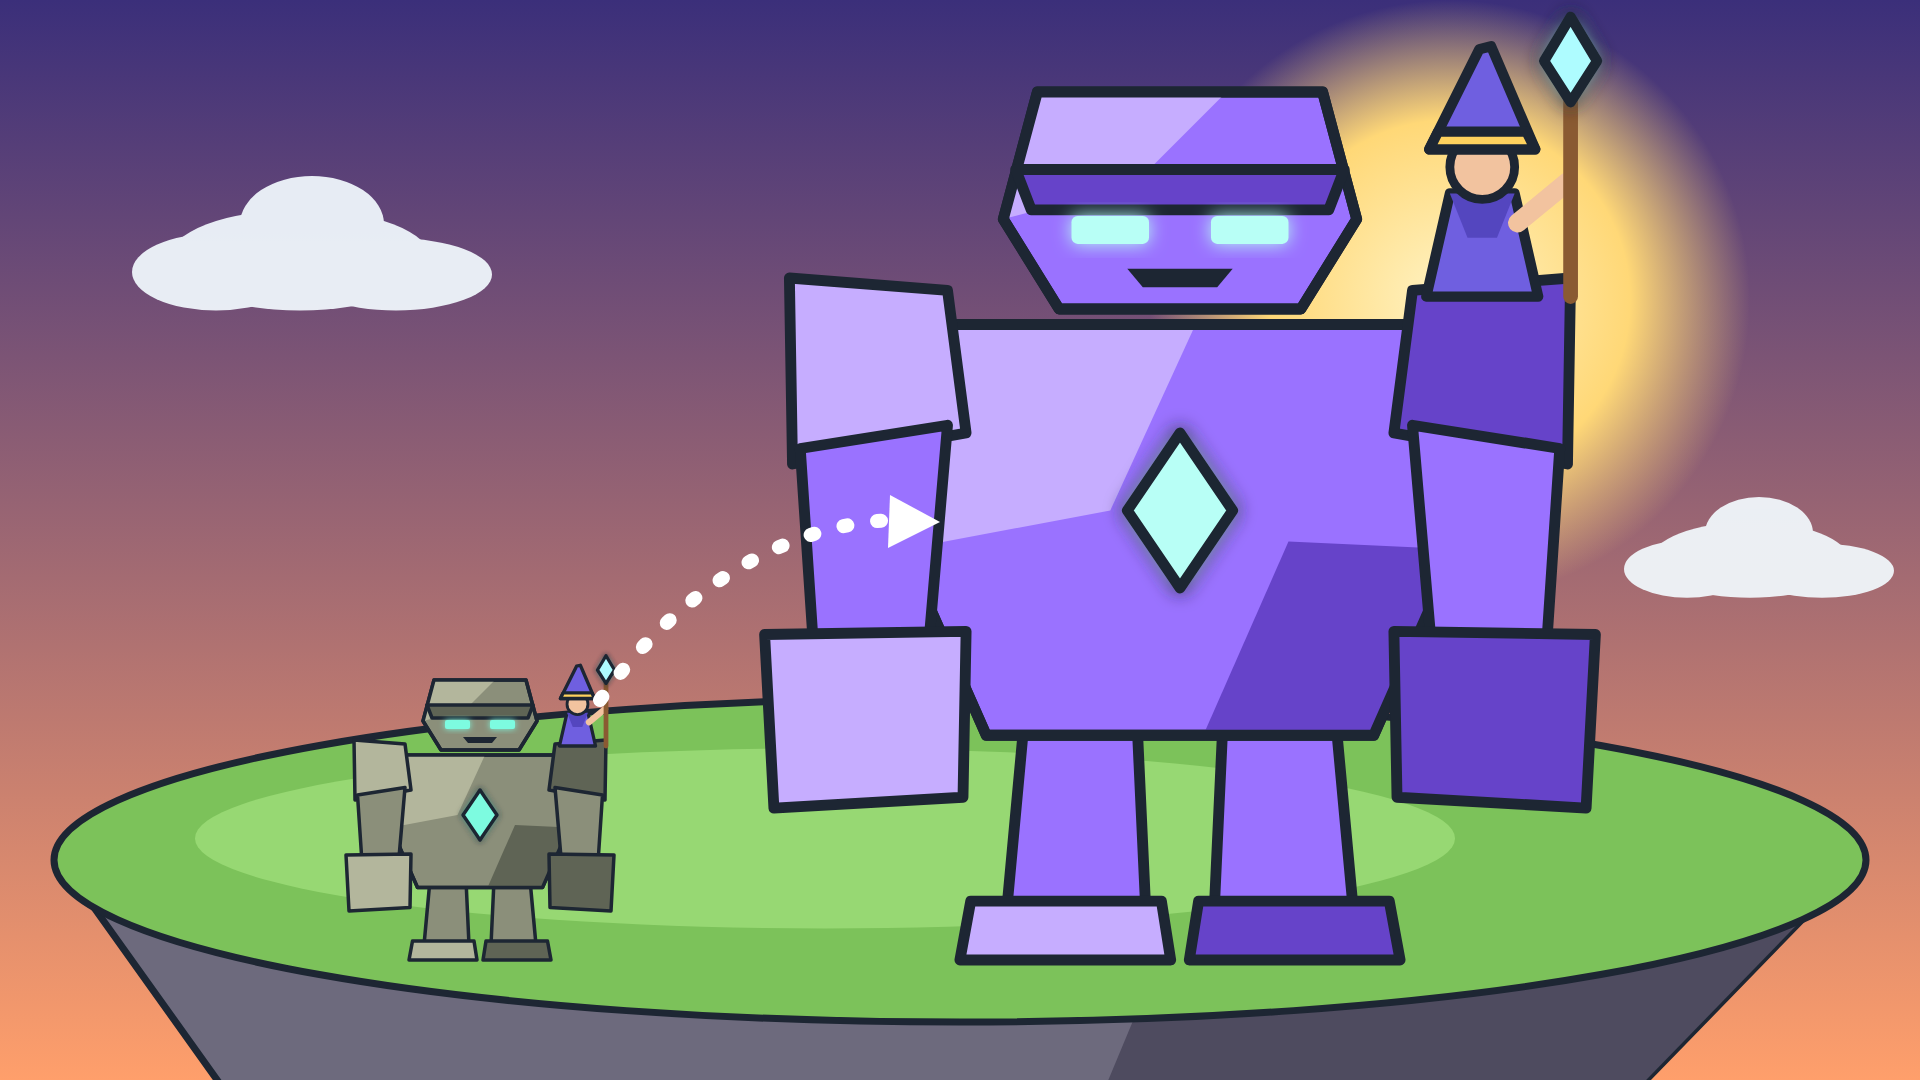
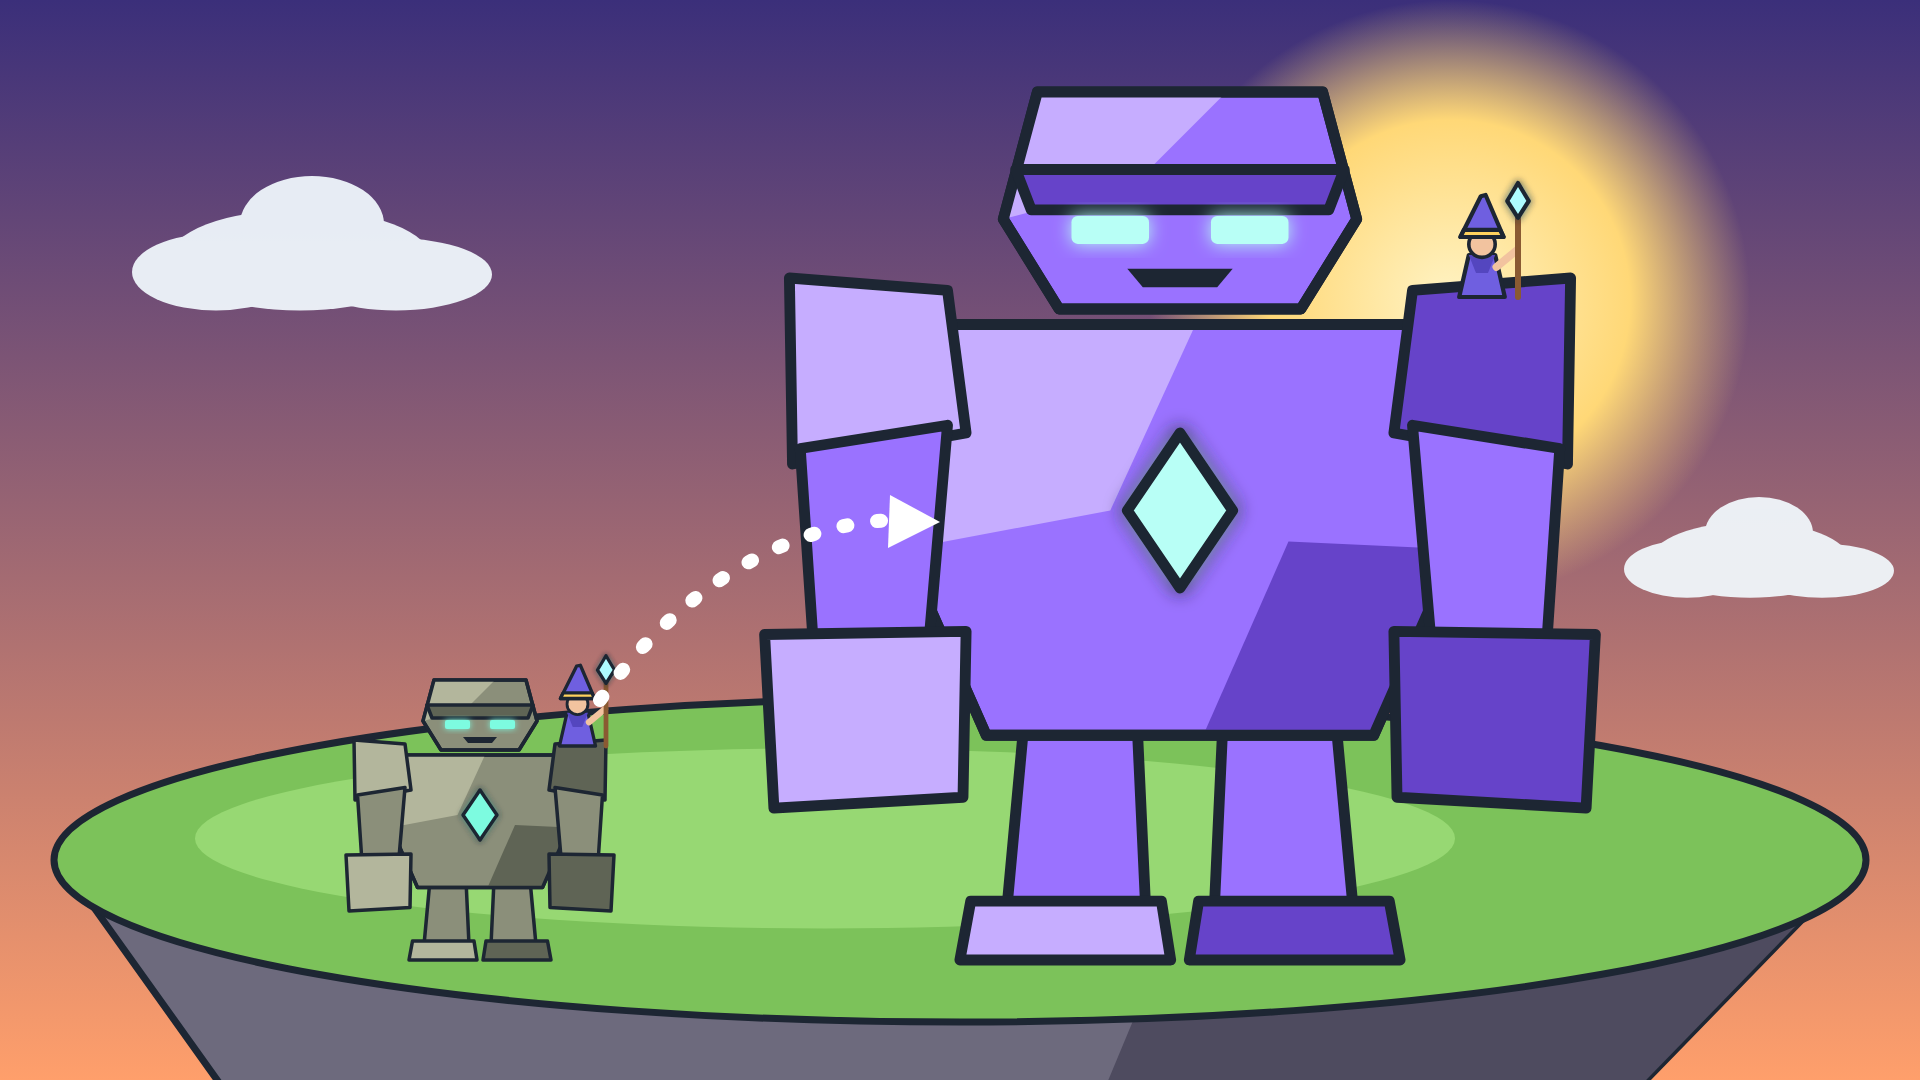
Keep the rider a fixed size in the growth thumbnail
Claude-Session: https://claude.ai/code/session_01SR5G2anPg1ZhMsPzViaXCg

Changed region(s): [[0.7188, 0.0, 0.8438, 0.3056]]

diff --git a/scripts/create_keyart.py b/scripts/create_keyart.py
@@ -189,7 +189,8 @@ write('thumbnail-party', svg(1920, 1080, DAY, body))
 body = '<circle cx="1450" cy="300" r="300" fill="url(#sun)"/>'
 body += cloud(300, 260, 1.2) + cloud(1750, 560, 0.9)
 body += island(960, 860, 1800, '#7cc25a')
-body += golem(1180, 960, 1.55, CRYSTAL)
+# The rider stays the same size, so the golem's growth reads against it.
+body += golem(1180, 960, 1.55, CRYSTAL, rider=False) + wizard(1482, 297, 0.6)
 body += golem(480, 960, 0.5, STONE)
 body += '<path d="M600 700 C 700 560, 820 520, 900 520" fill="none" stroke="#ffffff" stroke-width="14" stroke-linecap="round" stroke-dasharray="4 30"/>'
 body += poly([(890, 495), (940, 522), (888, 548)], '#ffffff', False)
